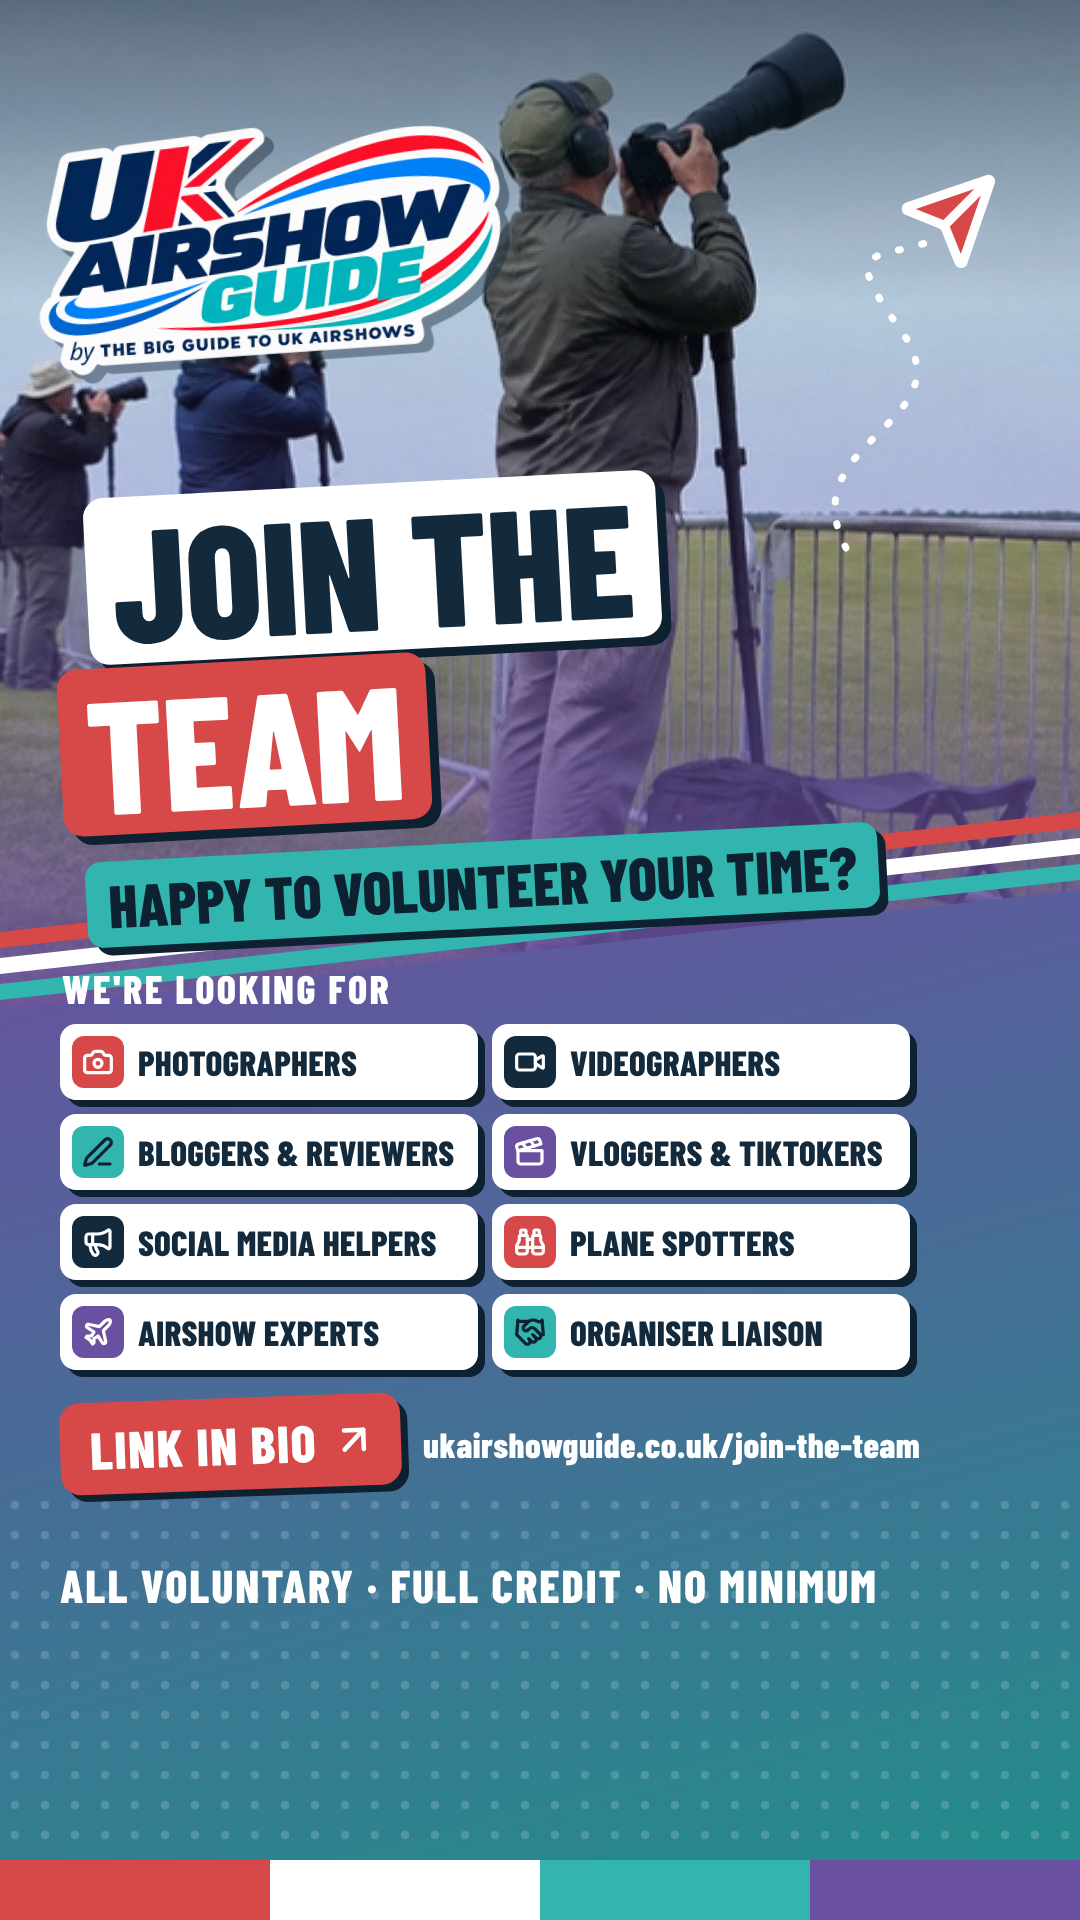
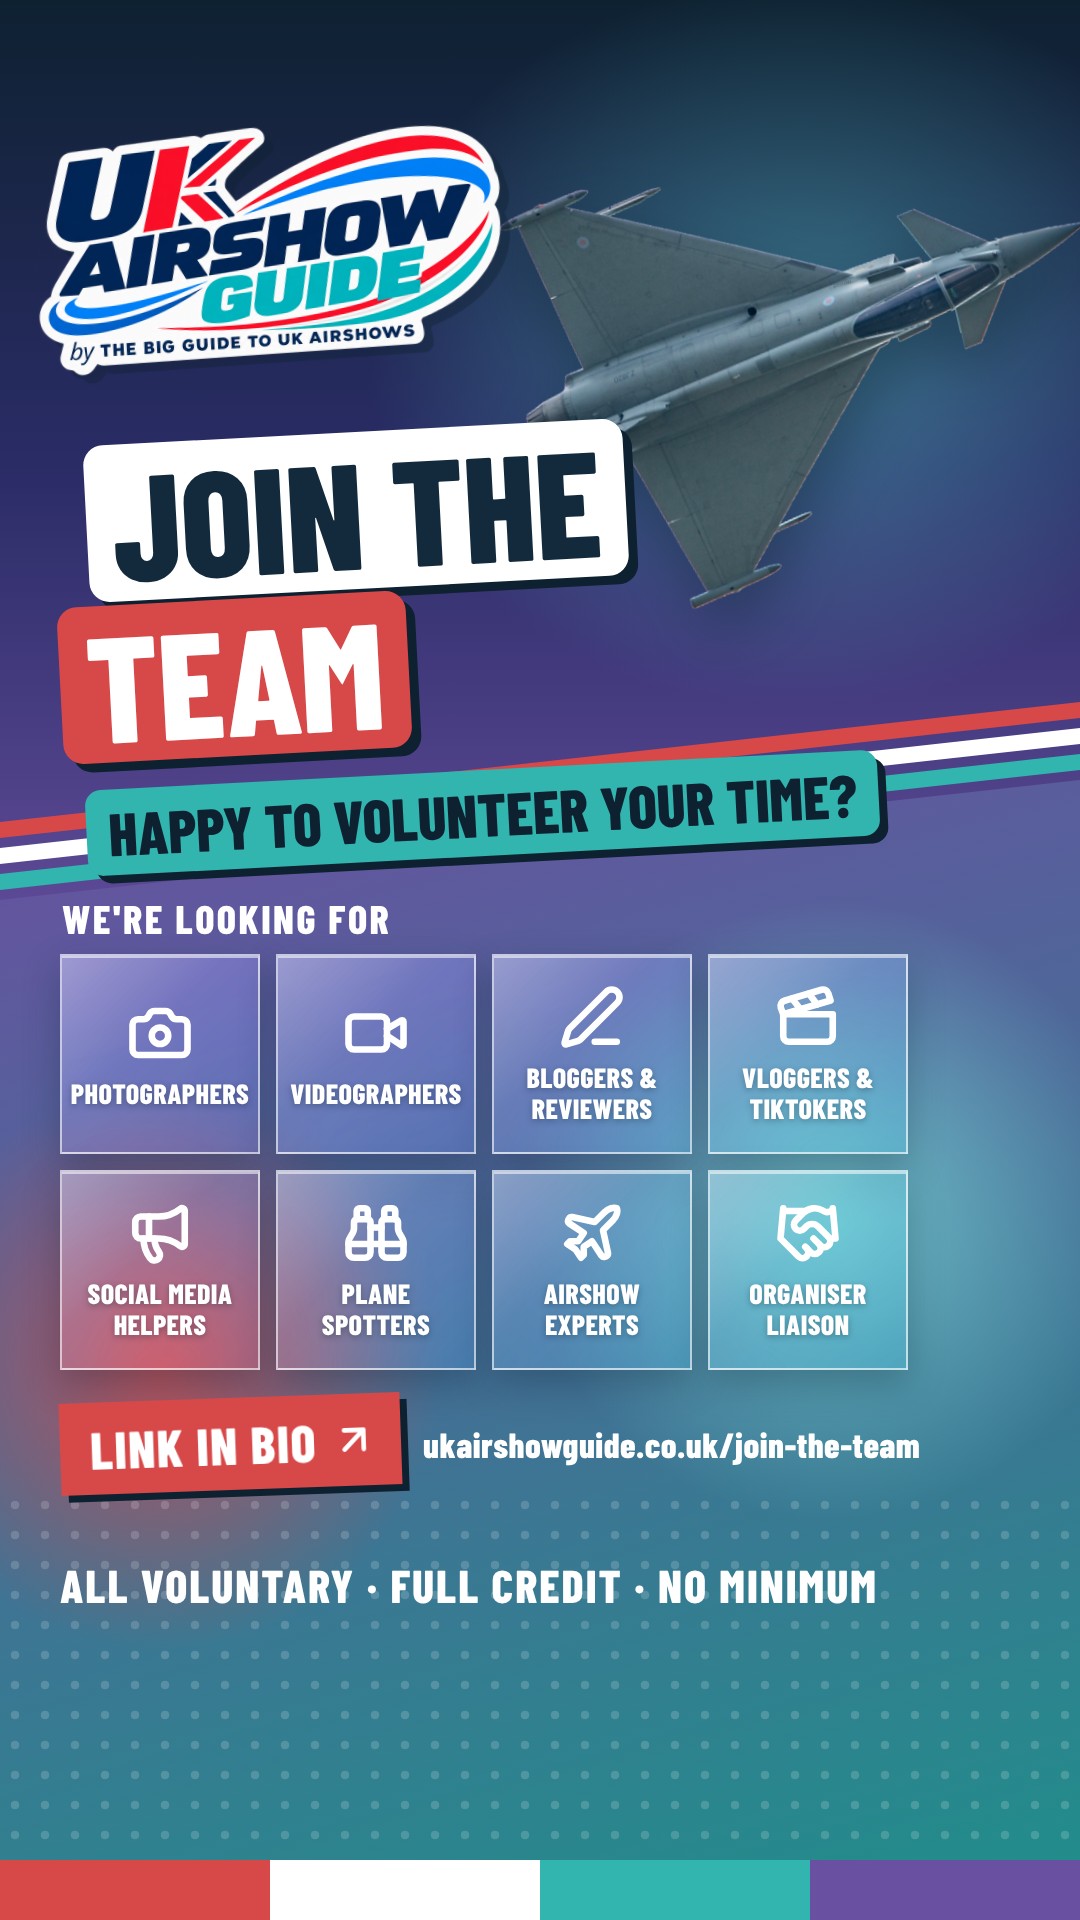
Join the team post: jet instead of photo, square glass tiles for roles
Replaces the photo with a Typhoon cut-out on a gradient sky. The eight
roles are now square-cornered glass tiles; rounded corners remain only
on the big headline text.

Claude-Session: https://claude.ai/code/session_01CAsoXHgnMU2LaVUUdRrAu8

diff --git a/posters/tiktok/tiktok-join.html b/posters/tiktok/tiktok-join.html
@@ -64,40 +64,48 @@ body{font-family:var(--body);padding:24px 0;display:flex;flex-direction:column;a
 .bar{position:absolute;left:0;top:1860px;width:1080px;height:60px;z-index:5;display:flex}
 .bar div{flex:1;height:60px}
 
+.sky{position:absolute;left:0;top:0;width:1080px;height:1010px;z-index:0;background:radial-gradient(620px 520px at 74% 34%,rgba(95,227,220,.42),rgba(95,227,220,0) 70%),linear-gradient(180deg,#0E2131 0%,#2a2c66 46%,#6950A1 100%)}
+.jet{position:absolute;left:452px;top:148px;width:660px;height:436px;display:block;transform:rotate(-13deg);z-index:1;filter:drop-shadow(0 26px 30px rgba(14,33,49,.45))}
+.panel{top:780px;height:1140px}
+.tr1{top:762px}
+.tr2{top:788px}
+.tr3{top:814px}
+.blob{position:absolute;border-radius:50%;z-index:3}
+.bl-a{left:-120px;top:1090px;width:560px;height:560px;background:radial-gradient(closest-side,rgba(215,73,73,.75),rgba(215,73,73,0))}
+.bl-b{left:520px;top:900px;width:620px;height:620px;background:radial-gradient(closest-side,rgba(127,227,222,.7),rgba(127,227,222,0))}
 .q{border-radius:16px;padding:0 22px;height:86px;display:flex;align-items:center;transform:rotate(-3deg);margin:4px 0 0 26px;background:#32B4AF;box-shadow:8px 8px 0 #0E2131}
 .q p{font-family:var(--display);font-weight:800;font-size:60px;line-height:86px;text-transform:uppercase;letter-spacing:0;color:#0E2131;white-space:nowrap}
-.want{font-family:var(--display);font-weight:800;font-size:40px;line-height:44px;letter-spacing:2.5px;text-transform:uppercase;color:#fff;margin:38px 0 14px 2px;white-space:nowrap}
-.roles{width:850px;display:flex;flex-direction:column;gap:14px}
-.rrow{display:flex;gap:14px}
-.role{width:418px;height:76px;background:#fff;border-radius:16px;display:flex;align-items:center;gap:14px;padding:0 12px 0 12px;box-shadow:7px 7px 0 #0E2131}
-.ric{width:52px;height:52px;border-radius:12px;display:flex;align-items:center;justify-content:center;color:#fff;flex:none}
-.ric .glyph{width:32px;height:32px}
-.role p{font-family:var(--display);font-weight:800;font-size:35px;line-height:38px;text-transform:uppercase;letter-spacing:.2px;color:#13293C;white-space:nowrap}
+.want{font-family:var(--display);font-weight:800;font-size:40px;line-height:44px;letter-spacing:2.5px;text-transform:uppercase;color:#fff;margin:40px 0 14px 2px;white-space:nowrap}
+.roles{width:848px;display:flex;flex-direction:column;gap:16px}
+.rrow{display:flex;gap:16px}
+/* glass tiles: square corners, frosted, light edge */
+.role{width:200px;height:200px;border-radius:0;display:flex;flex-direction:column;align-items:center;justify-content:center;gap:0;
+  background:linear-gradient(135deg,rgba(255,255,255,.40) 0%,rgba(255,255,255,.16) 42%,rgba(255,255,255,.08) 100%);
+  border:2.5px solid rgba(255,255,255,.62);-webkit-backdrop-filter:blur(18px) saturate(1.35);backdrop-filter:blur(18px) saturate(1.35);
+  box-shadow:0 14px 34px rgba(14,33,49,.30),inset 0 2px 0 rgba(255,255,255,.55)}
+.ric{width:66px;height:66px;display:flex;align-items:center;justify-content:center;color:#fff;flex:none;margin-bottom:12px}
+.ric .glyph{width:66px;height:66px}
+.rl{width:190px;text-align:center;font-family:var(--display);font-weight:800;font-size:28px;line-height:31px;text-transform:uppercase;letter-spacing:.4px;color:#fff;white-space:nowrap;text-shadow:0 2px 6px rgba(14,33,49,.35)}
+.pill{border-radius:0}
 .site{font-size:35px}
-.fly{position:absolute;left:0;top:0;width:1080px;height:1010px;z-index:4;display:block}
 </style></head><body>
 
 <section class="slide" id="tk-join" data-canvas-width="1080" data-canvas-height="1920" style="background:#1F8F8A">
-  <img class="ph" src="img/tk-join.jpg" width="1080" height="1010" alt="Photographers with long lenses at the crowd line">
-  <div class="tint" style="background:linear-gradient(180deg,rgba(14,33,49,.62) 0%,rgba(14,33,49,.1) 30%,rgba(105,80,161,.25) 52%,rgba(105,80,161,.92) 100%)"></div>
-  <svg class="fly" viewBox="0 0 1080 1010" aria-hidden="true">
-<path d="M846 548 C 790 440, 968 424, 902 332 S 876 262, 934 240" fill="none" stroke="#fff" stroke-width="7" stroke-linecap="round" stroke-dasharray="2 22"/>
-<g transform="translate(898 171) scale(4.2)" fill="none" stroke="#fff" stroke-width="2.2" stroke-linecap="round" stroke-linejoin="round"><path d="M14.536 21.686a.5.5 0 0 0 .937-.024l6.5-19a.496.496 0 0 0-.635-.635l-19 6.5a.5.5 0 0 0-.024.937l7.93 3.18a2 2 0 0 1 1.112 1.11z" fill="#D74949"/><path d="m21.854 2.147-10.94 10.939"/></g>
-</svg>
+  <div class="sky"></div>
+  <img class="jet" src="img/jet-typhoon.png" width="660" height="436" alt="Typhoon fighter jet">
   <div class="panel" style="background:linear-gradient(165deg,#6950A1 0%,#1F8F8A 100%)"></div>
+  <div class="blob bl-a"></div><div class="blob bl-b"></div>
   <div class="dots"></div>
   <div class="trail tr1"></div><div class="trail tr2"></div><div class="trail tr3"></div>
   <img class="logo2" src="img/logo-swish.png" width="470" height="237" alt="UK Airshow Guide by The Big Guide to UK Airshows">
   <div class="stack">
-    <div class="hl b-white" style="height:167px;box-shadow:9px 9px 0 #0E2131"><p style="font-size:160px;line-height:167px">Join the</p></div>
-    <div class="hl b-red" style="height:167px;box-shadow:9px 9px 0 #0E2131"><p style="font-size:160px;line-height:167px">team</p></div>
+    <div class="hl b-white" style="height:157px;box-shadow:9px 9px 0 #0E2131"><p style="font-size:150px;line-height:157px">Join the</p></div>
+    <div class="hl b-red" style="height:157px;box-shadow:9px 9px 0 #0E2131"><p style="font-size:150px;line-height:157px">team</p></div>
     <div class="q"><p>Happy to volunteer your time?</p></div>
     <p class="want">We're looking for</p>
     <div class="roles">
-      <div class="rrow"><div class="role"><div class="ric" style="background:#D74949"><svg class="glyph" viewBox="0 0 24 24" fill="none" stroke="currentColor" stroke-width="2.4" stroke-linecap="round" stroke-linejoin="round" aria-hidden="true"><path d="M13.997 4a2 2 0 0 1 1.76 1.05l.486.9A2 2 0 0 0 18.003 7H20a2 2 0 0 1 2 2v9a2 2 0 0 1-2 2H4a2 2 0 0 1-2-2V9a2 2 0 0 1 2-2h1.997a2 2 0 0 0 1.759-1.048l.489-.904A2 2 0 0 1 10.004 4z" /><circle cx="12" cy="13" r="3" /></svg></div><p>Photographers</p></div><div class="role"><div class="ric" style="background:#13293C"><svg class="glyph" viewBox="0 0 24 24" fill="none" stroke="currentColor" stroke-width="2.4" stroke-linecap="round" stroke-linejoin="round" aria-hidden="true"><path d="m16 13 5.223 3.482a.5.5 0 0 0 .777-.416V7.87a.5.5 0 0 0-.752-.432L16 10.5" /><rect x="2" y="6" width="14" height="12" rx="2" /></svg></div><p>Videographers</p></div></div>
-      <div class="rrow"><div class="role"><div class="ric" style="background:#32B4AF;color:#0E2131"><svg class="glyph" viewBox="0 0 24 24" fill="none" stroke="currentColor" stroke-width="2.4" stroke-linecap="round" stroke-linejoin="round" aria-hidden="true"><path d="M13 21h8" /><path d="M21.174 6.812a1 1 0 0 0-3.986-3.987L3.842 16.174a2 2 0 0 0-.5.83l-1.321 4.352a.5.5 0 0 0 .623.622l4.353-1.32a2 2 0 0 0 .83-.497z" /></svg></div><p>Bloggers &amp; reviewers</p></div><div class="role"><div class="ric" style="background:#6950A1"><svg class="glyph" viewBox="0 0 24 24" fill="none" stroke="currentColor" stroke-width="2.4" stroke-linecap="round" stroke-linejoin="round" aria-hidden="true"><path d="m12.296 3.464 3.02 3.956" /><path d="M20.2 6 3 11l-.9-2.4c-.3-1.1.3-2.2 1.3-2.5l13.5-4c1.1-.3 2.2.3 2.5 1.3z" /><path d="M3 11h18v8a2 2 0 0 1-2 2H5a2 2 0 0 1-2-2z" /><path d="m6.18 5.276 3.1 3.899" /></svg></div><p>Vloggers &amp; TikTokers</p></div></div>
-      <div class="rrow"><div class="role"><div class="ric" style="background:#13293C"><svg class="glyph" viewBox="0 0 24 24" fill="none" stroke="currentColor" stroke-width="2.4" stroke-linecap="round" stroke-linejoin="round" aria-hidden="true"><path d="M11 6a13 13 0 0 0 8.4-2.8A1 1 0 0 1 21 4v12a1 1 0 0 1-1.6.8A13 13 0 0 0 11 14H5a2 2 0 0 1-2-2V8a2 2 0 0 1 2-2z" /><path d="M6 14a12 12 0 0 0 2.4 7.2 2 2 0 0 0 3.2-2.4A8 8 0 0 1 10 14" /><path d="M8 6v8" /></svg></div><p>Social media helpers</p></div><div class="role"><div class="ric" style="background:#D74949"><svg class="glyph" viewBox="0 0 24 24" fill="none" stroke="currentColor" stroke-width="2.4" stroke-linecap="round" stroke-linejoin="round" aria-hidden="true"><path d="M10 10h4" /><path d="M19 7V4a1 1 0 0 0-1-1h-2a1 1 0 0 0-1 1v3" /><path d="M20 21a2 2 0 0 0 2-2v-3.851c0-1.39-2-2.962-2-4.829V8a1 1 0 0 0-1-1h-4a1 1 0 0 0-1 1v11a2 2 0 0 0 2 2z" /><path d="M 22 16 L 2 16" /><path d="M4 21a2 2 0 0 1-2-2v-3.851c0-1.39 2-2.962 2-4.829V8a1 1 0 0 1 1-1h4a1 1 0 0 1 1 1v11a2 2 0 0 1-2 2z" /><path d="M9 7V4a1 1 0 0 0-1-1H6a1 1 0 0 0-1 1v3" /></svg></div><p>Plane spotters</p></div></div>
-      <div class="rrow"><div class="role"><div class="ric" style="background:#6950A1"><svg class="glyph" viewBox="0 0 24 24" fill="none" stroke="currentColor" stroke-width="2.4" stroke-linecap="round" stroke-linejoin="round" aria-hidden="true"><path d="M17.8 19.2 16 11l3.5-3.5C21 6 21.5 4 21 3c-1-.5-3 0-4.5 1.5L13 8 4.8 6.2c-.5-.1-.9.1-1.1.5l-.3.5c-.2.5-.1 1 .3 1.3L9 12l-2 3H4l-1 1 3 2 2 3 1-1v-3l3-2 3.5 5.3c.3.4.8.5 1.3.3l.5-.2c.4-.3.6-.7.5-1.2z" /></svg></div><p>Airshow experts</p></div><div class="role"><div class="ric" style="background:#32B4AF;color:#0E2131"><svg class="glyph" viewBox="0 0 24 24" fill="none" stroke="currentColor" stroke-width="2.4" stroke-linecap="round" stroke-linejoin="round" aria-hidden="true"><path d="m11 17 2 2a1 1 0 1 0 3-3" /><path d="m14 14 2.5 2.5a1 1 0 1 0 3-3l-3.88-3.88a3 3 0 0 0-4.24 0l-.88.88a1 1 0 1 1-3-3l2.81-2.81a5.79 5.79 0 0 1 7.06-.87l.47.28a2 2 0 0 0 1.42.25L21 4" /><path d="m21 3 1 11h-2" /><path d="M3 3 2 14l6.5 6.5a1 1 0 1 0 3-3" /><path d="M3 4h8" /></svg></div><p>Organiser liaison</p></div></div>
+      <div class="rrow"><div class="role"><div class="ric"><svg class="glyph" viewBox="0 0 24 24" fill="none" stroke="currentColor" stroke-width="2.4" stroke-linecap="round" stroke-linejoin="round" aria-hidden="true"><path d="M13.997 4a2 2 0 0 1 1.76 1.05l.486.9A2 2 0 0 0 18.003 7H20a2 2 0 0 1 2 2v9a2 2 0 0 1-2 2H4a2 2 0 0 1-2-2V9a2 2 0 0 1 2-2h1.997a2 2 0 0 0 1.759-1.048l.489-.904A2 2 0 0 1 10.004 4z" /><circle cx="12" cy="13" r="3" /></svg></div><p class="rl">Photographers</p></div><div class="role"><div class="ric"><svg class="glyph" viewBox="0 0 24 24" fill="none" stroke="currentColor" stroke-width="2.4" stroke-linecap="round" stroke-linejoin="round" aria-hidden="true"><path d="m16 13 5.223 3.482a.5.5 0 0 0 .777-.416V7.87a.5.5 0 0 0-.752-.432L16 10.5" /><rect x="2" y="6" width="14" height="12" rx="2" /></svg></div><p class="rl">Videographers</p></div><div class="role"><div class="ric"><svg class="glyph" viewBox="0 0 24 24" fill="none" stroke="currentColor" stroke-width="2.4" stroke-linecap="round" stroke-linejoin="round" aria-hidden="true"><path d="M13 21h8" /><path d="M21.174 6.812a1 1 0 0 0-3.986-3.987L3.842 16.174a2 2 0 0 0-.5.83l-1.321 4.352a.5.5 0 0 0 .623.622l4.353-1.32a2 2 0 0 0 .83-.497z" /></svg></div><p class="rl">Bloggers &amp;</p><p class="rl">reviewers</p></div><div class="role"><div class="ric"><svg class="glyph" viewBox="0 0 24 24" fill="none" stroke="currentColor" stroke-width="2.4" stroke-linecap="round" stroke-linejoin="round" aria-hidden="true"><path d="m12.296 3.464 3.02 3.956" /><path d="M20.2 6 3 11l-.9-2.4c-.3-1.1.3-2.2 1.3-2.5l13.5-4c1.1-.3 2.2.3 2.5 1.3z" /><path d="M3 11h18v8a2 2 0 0 1-2 2H5a2 2 0 0 1-2-2z" /><path d="m6.18 5.276 3.1 3.899" /></svg></div><p class="rl">Vloggers &amp;</p><p class="rl">TikTokers</p></div></div>
+      <div class="rrow"><div class="role"><div class="ric"><svg class="glyph" viewBox="0 0 24 24" fill="none" stroke="currentColor" stroke-width="2.4" stroke-linecap="round" stroke-linejoin="round" aria-hidden="true"><path d="M11 6a13 13 0 0 0 8.4-2.8A1 1 0 0 1 21 4v12a1 1 0 0 1-1.6.8A13 13 0 0 0 11 14H5a2 2 0 0 1-2-2V8a2 2 0 0 1 2-2z" /><path d="M6 14a12 12 0 0 0 2.4 7.2 2 2 0 0 0 3.2-2.4A8 8 0 0 1 10 14" /><path d="M8 6v8" /></svg></div><p class="rl">Social media</p><p class="rl">helpers</p></div><div class="role"><div class="ric"><svg class="glyph" viewBox="0 0 24 24" fill="none" stroke="currentColor" stroke-width="2.4" stroke-linecap="round" stroke-linejoin="round" aria-hidden="true"><path d="M10 10h4" /><path d="M19 7V4a1 1 0 0 0-1-1h-2a1 1 0 0 0-1 1v3" /><path d="M20 21a2 2 0 0 0 2-2v-3.851c0-1.39-2-2.962-2-4.829V8a1 1 0 0 0-1-1h-4a1 1 0 0 0-1 1v11a2 2 0 0 0 2 2z" /><path d="M 22 16 L 2 16" /><path d="M4 21a2 2 0 0 1-2-2v-3.851c0-1.39 2-2.962 2-4.829V8a1 1 0 0 1 1-1h4a1 1 0 0 1 1 1v11a2 2 0 0 1-2 2z" /><path d="M9 7V4a1 1 0 0 0-1-1H6a1 1 0 0 0-1 1v3" /></svg></div><p class="rl">Plane</p><p class="rl">spotters</p></div><div class="role"><div class="ric"><svg class="glyph" viewBox="0 0 24 24" fill="none" stroke="currentColor" stroke-width="2.4" stroke-linecap="round" stroke-linejoin="round" aria-hidden="true"><path d="M17.8 19.2 16 11l3.5-3.5C21 6 21.5 4 21 3c-1-.5-3 0-4.5 1.5L13 8 4.8 6.2c-.5-.1-.9.1-1.1.5l-.3.5c-.2.5-.1 1 .3 1.3L9 12l-2 3H4l-1 1 3 2 2 3 1-1v-3l3-2 3.5 5.3c.3.4.8.5 1.3.3l.5-.2c.4-.3.6-.7.5-1.2z" /></svg></div><p class="rl">Airshow</p><p class="rl">experts</p></div><div class="role"><div class="ric"><svg class="glyph" viewBox="0 0 24 24" fill="none" stroke="currentColor" stroke-width="2.4" stroke-linecap="round" stroke-linejoin="round" aria-hidden="true"><path d="m11 17 2 2a1 1 0 1 0 3-3" /><path d="m14 14 2.5 2.5a1 1 0 1 0 3-3l-3.88-3.88a3 3 0 0 0-4.24 0l-.88.88a1 1 0 1 1-3-3l2.81-2.81a5.79 5.79 0 0 1 7.06-.87l.47.28a2 2 0 0 0 1.42.25L21 4" /><path d="m21 3 1 11h-2" /><path d="M3 3 2 14l6.5 6.5a1 1 0 1 0 3-3" /><path d="M3 4h8" /></svg></div><p class="rl">Organiser</p><p class="rl">liaison</p></div></div>
     </div>
     <div class="cta"><div class="pill c-red" style="box-shadow:7px 7px 0 #0E2131"><p>Link in bio</p><svg class="glyph" viewBox="0 0 24 24" fill="none" stroke="currentColor" stroke-width="2.4" stroke-linecap="round" stroke-linejoin="round" aria-hidden="true"><path d="M7 7h10v10" /><path d="M7 17 17 7" /></svg></div><p class="site">ukairshowguide.co.uk/join-the-team</p></div>
   </div>
